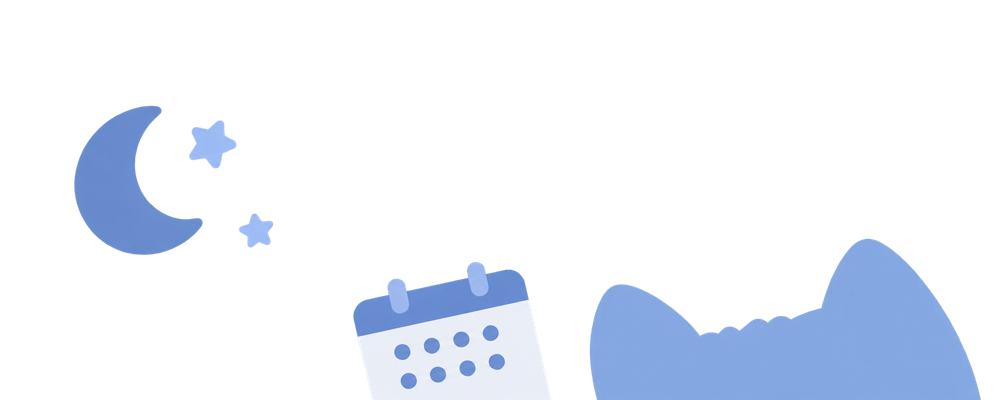
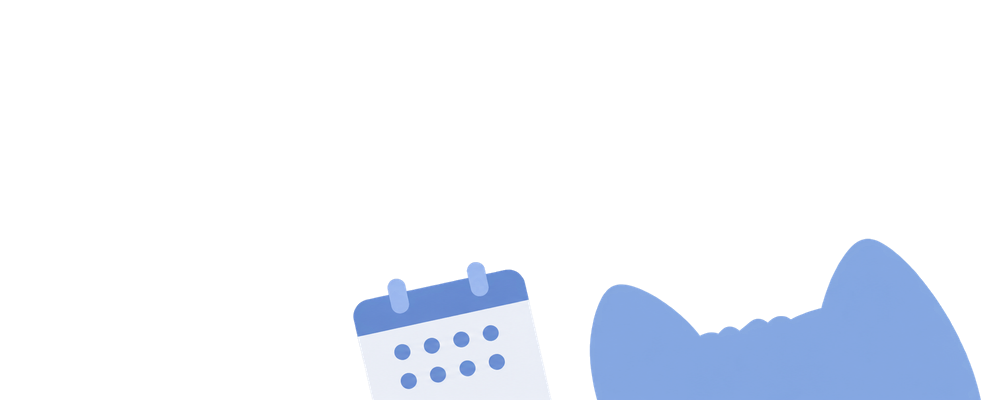
style: update image handling and styles for top sections, add theme filtering for images

Changed region(s): [[0.062, 0.27, 0.279, 0.66], [0.186, 0.3, 0.248, 0.42]]

diff --git a/next/src/app/(routes)/(app)/calendar/_components/CalendarPageTopSection.tsx b/next/src/app/(routes)/(app)/calendar/_components/CalendarPageTopSection.tsx
@@ -1,14 +1,13 @@
 import AppPageTitle from '@/common/components/layout/AppPageTitle';
+import { TopSectionCatClass, TopSectionCatSize } from '@/common/constants/TopSectionCat';
 import Image from 'next/image';
-import sunCat from '/public/img/hiding-cat-calendar-sun.png';
-import moonCat from '/public/img/hiding-cat-calendar.png';
+import calendarCat from '/public/img/hiding-cat-calendar.png';
 
 const CalendarPageTopSection = () => {
   return (
     <section>
       <AppPageTitle title="월간 기록" description="하루하루 쌓인 마음과 습관을 살펴봐요" />
-      <Image priority src={sunCat} alt="해가 뜬 고양이" sizes="(min-width: 1024px) 40vw, (min-width: 480px) calc(50vw - 36px), 68vw" className="calendar-top-cat-light ml-auto w-3/4 tablet:w-1/3 desktop:w-1/3" />
-      <Image priority src={moonCat} alt="달과 별이 뜬 고양이" sizes="(min-width: 1024px) 40vw, (min-width: 480px) calc(50vw - 36px), 68vw" className="calendar-top-cat-dark ml-auto w-3/4 tablet:w-1/3 desktop:w-1/3" />
+      <Image priority src={calendarCat} alt="달력을 든 고양이" sizes={TopSectionCatSize} className={TopSectionCatClass} />
     </section>
   );
 };

diff --git a/next/src/app/(routes)/(app)/home/_components/HomePageTopSection.tsx b/next/src/app/(routes)/(app)/home/_components/HomePageTopSection.tsx
@@ -9,6 +9,7 @@ import hidingCat from '/public/img/hiding-cat.png';
 import EmotionImage from '@/common/components/ui/EmotionImage';
 import Wordmark from '@/common/components/ui/Wordmark';
 import { EMOTIONS } from '@/common/constants/emotions';
+import { TopSectionCatClass, TopSectionCatSize } from '@/common/constants/TopSectionCat';
 import { useSettingsContext } from '@/common/settings/useSettingsContext';
 import { cn } from '@/common/utils/cn';
 import TodayRecordSection from './TodayRecordSection';
@@ -44,7 +45,7 @@ const HomePageTopSection = ({ initialDate }: { initialDate: string }) => {
       <div className="desktop:hidden p-1">
         <TodayRecordSection initialDate={initialDate} />
       </div>
-      <Image priority src={hidingCat} alt="hiding-cat" sizes="(min-width: 1024px) 40vw, (min-width: 480px) calc(50vw - 36px), 68vw" className="ml-auto block w-3/4 tablet:w-1/3 desktop:w-1/3" />
+      <Image priority src={hidingCat} alt="hiding-cat" sizes={TopSectionCatSize} className={TopSectionCatClass} />
     </section>
   );
 };

diff --git a/next/src/common/components/features/DiaryForm/DiaryFormEmotionPicker.tsx b/next/src/common/components/features/DiaryForm/DiaryFormEmotionPicker.tsx
@@ -5,8 +5,7 @@ import {
   PICKER_CLOSE_BUTTON_CLASS,
   PICKER_CONFIRM_BUTTON_CLASS,
   PICKER_CONTENT_CLASS,
-  PICKER_DESCRIPTION_CLASS,
-  PICKER_TITLE_CLASS,
+  PICKER_TITLE_CLASS
 } from '@/common/components/ui/Dialog/PickerDialog/constants';
 import { EmotionPicker } from '@/common/components/ui/EmotionPicker';
 import { EMOTIONS } from '@/common/constants/emotions';
@@ -37,7 +36,6 @@ const DiaryFormEmotionPicker = ({ emotion, onClose, onConfirm }: DiaryFormEmotio
           </button>
           <div className="flex flex-col">
             <h2 id="diary-emotion-picker-title" className={PICKER_TITLE_CLASS}>오늘의 감정을 골라주세요</h2>
-            <p id="diary-emotion-picker-description" className={PICKER_DESCRIPTION_CLASS}>하루를 가장 잘 표현하는 감정 하나</p>
           </div>
           <div className={PICKER_BODY_CLASS}>
             <EmotionPicker value={draftEmotion} onChange={setDraftEmotion} />

diff --git a/next/src/app/(routes)/(app)/habit/_components/HabitPageTopSection.tsx b/next/src/app/(routes)/(app)/habit/_components/HabitPageTopSection.tsx
@@ -1,4 +1,5 @@
 import AppPageTitle from '@/common/components/layout/AppPageTitle';
+import { TopSectionCatClass, TopSectionCatSize } from '@/common/constants/TopSectionCat';
 import Image from 'next/image';
 import habitCat from '/public/img/hiding-cat-habit.png';
 
@@ -6,7 +7,7 @@ const HabitPageTopSection = () => {
   return (
     <section>
       <AppPageTitle title="습관 만들기" description="작은 실천으로 만들어가는 나의 일상" />
-      <Image priority src={habitCat} alt="습관을 체크한 노트를 든 고양이" sizes="(min-width: 1024px) 40vw, (min-width: 480px) calc(50vw - 36px), 68vw" className="ml-auto mt-auto block w-3/4 tablet:w-1/3 desktop:w-1/3" />
+      <Image priority src={habitCat} alt="습관을 체크한 노트를 든 고양이" sizes={TopSectionCatSize} className={TopSectionCatClass} />
     </section>
   );
 };

diff --git a/next/src/style/theme.css b/next/src/style/theme.css
@@ -27,6 +27,27 @@
   font-family: var(--app-font-family);
 }
 
+html[data-theme-accent="green"] .theme-filtered-img {
+  filter: sepia(0.8) hue-rotate(110deg) saturate(1.35) brightness(0.88) contrast(1.02);
+}
+
+html[data-theme-accent="pink"] .theme-filtered-img {
+  filter: sepia(1) hue-rotate(-60deg) saturate(1.14) brightness(0.88) contrast(1.1);
+}
+
+html[data-theme-accent="purple"] .theme-filtered-img {
+  filter: sepia(0.81) hue-rotate(-168deg) saturate(1.60) brightness(0.82) contrast(1.07);
+}
+
+html[data-theme-accent="yellow"] .theme-filtered-img {
+  filter: sepia(0.9) hue-rotate(4deg) saturate(2.8) brightness(0.95) contrast(1.06);
+}
+
+html[data-theme-accent="grey"] .theme-filtered-img {
+  filter: grayscale(1) brightness(0.87);
+}
+
+
 html[data-theme-accent='blue'] {
   --theme-accent: 140 173 226;
   --theme-accent-light: 240 247 255;

diff --git a/next/src/app/(routes)/(app)/diary/_components/DiaryPageTopSection.tsx b/next/src/app/(routes)/(app)/diary/_components/DiaryPageTopSection.tsx
@@ -1,4 +1,5 @@
 import AppPageTitle from '@/common/components/layout/AppPageTitle';
+import { TopSectionCatClass, TopSectionCatSize } from '@/common/constants/TopSectionCat';
 import Image from 'next/image';
 import diaryCat from '/public/img/hiding-cat-diary.png';
 
@@ -6,7 +7,7 @@ const DiaryPageTopSection = () => {
   return (
     <section>
       <AppPageTitle title="일기 목록" description="차곡차곡 쌓이는 나의 하루" />
-      <Image priority src={diaryCat} alt="일기장을 든 고양이" sizes="(min-width: 1024px) 40vw, (min-width: 480px) calc(50vw - 36px), 68vw" className="ml-auto block w-3/4 tablet:w-1/3 desktop:w-1/3" />
+      <Image priority src={diaryCat} alt="일기장을 든 고양이" sizes={TopSectionCatSize} className={TopSectionCatClass} />
     </section>
   );
 };

diff --git a/next/src/app/(routes)/(app)/setting/_components/SettingPageTopSection.tsx b/next/src/app/(routes)/(app)/setting/_components/SettingPageTopSection.tsx
@@ -1,6 +1,7 @@
 'use client';
 
 import AppPageTitle from "@/common/components/layout/AppPageTitle";
+import { TopSectionCatClass, TopSectionCatSize } from "@/common/constants/TopSectionCat";
 import Image from "next/image";
 import hidingCat from "/public/img/hiding-cat-tail.png";
 
@@ -8,7 +9,7 @@ const SettingPageTopSection = () => {
   return (
     <section>
       <AppPageTitle title="앱 설정" description="나에게 편안한 기록 공간을 만들어요" />
-      <Image priority src={hidingCat} alt="" sizes="(min-width: 1024px) 40vw, (min-width: 480px) calc(50vw - 36px), 68vw" className="ml-auto mt-auto block w-3/5 tablet:w-1/3 desktop:w-1/3" />
+      <Image priority src={hidingCat} alt="" sizes={TopSectionCatSize} className={TopSectionCatClass} />
     </section>
   );
 };

diff --git a/next/src/common/components/ui/BottomSafe.tsx b/next/src/common/components/ui/BottomSafe.tsx
@@ -6,7 +6,7 @@ import hidingCatTail from '/public/img/hiding-cat-tail-no-pawprints.png';
 const CONTAINER_CLASS =
   'desktop:hidden w-[180px] self-center mt-16 desktop:mt-24 mb-24 flex flex-col';
 const TAIL_IMAGE_CLASS =
-  '-mb-1 h-auto w-full';
+  'theme-filtered-img -mb-1 h-auto w-full';
 const BOX_CLASS =
   'relative h-24 w-full rotate-[-1deg] bg-theme-text-tertiary shadow-md [clip-path:polygon(4%_3%,95%_0%,100%_82%,93%_100%,8%_95%,0%_14%)]';
 const BOX_TOP_FOLD_CLASS =

diff --git a/next/src/app/globals.css b/next/src/app/globals.css
@@ -129,22 +129,6 @@ html[data-theme-mode='어둡게'] {
   color-scheme: dark;
 }
 
-.calendar-top-cat-light {
-  display: block;
-}
-
-.calendar-top-cat-dark {
-  display: none;
-}
-
-html[data-theme-mode='어둡게'] .calendar-top-cat-light {
-  display: none;
-}
-
-html[data-theme-mode='어둡게'] .calendar-top-cat-dark {
-  display: block;
-}
-
 /* app font type */
 html[data-font-type='타입1'] {
   --app-font-family: 'TmoneyRoundWind';

diff --git a/next/src/app/(routes)/(app)/home/_components/HabitAnalysis.tsx b/next/src/app/(routes)/(app)/home/_components/HabitAnalysis.tsx
@@ -34,7 +34,7 @@ const HabitAnalysis = ({ stats, year }: Props) => {
     <AppSection>
       <AppSectionHeader>
         <AppSectionTitle>습관 기록</AppSectionTitle>
-        <AppSectionMeta>{year}년</AppSectionMeta>
+        <AppSectionMeta>{year}년 기준</AppSectionMeta>
       </AppSectionHeader>
 
       <AppUnderlineTabs

diff --git a/next/src/common/constants/TopSectionCat.ts b/next/src/common/constants/TopSectionCat.ts
@@ -1,0 +1,2 @@
+export const TopSectionCatClass = "theme-filtered-img ml-auto mt-auto block w-3/4 tablet:w-1/3 desktop:w-1/3";
+export const TopSectionCatSize = "(min-width: 1024px) 40vw, (min-width: 480px) calc(50vw - 36px), 68vw";
